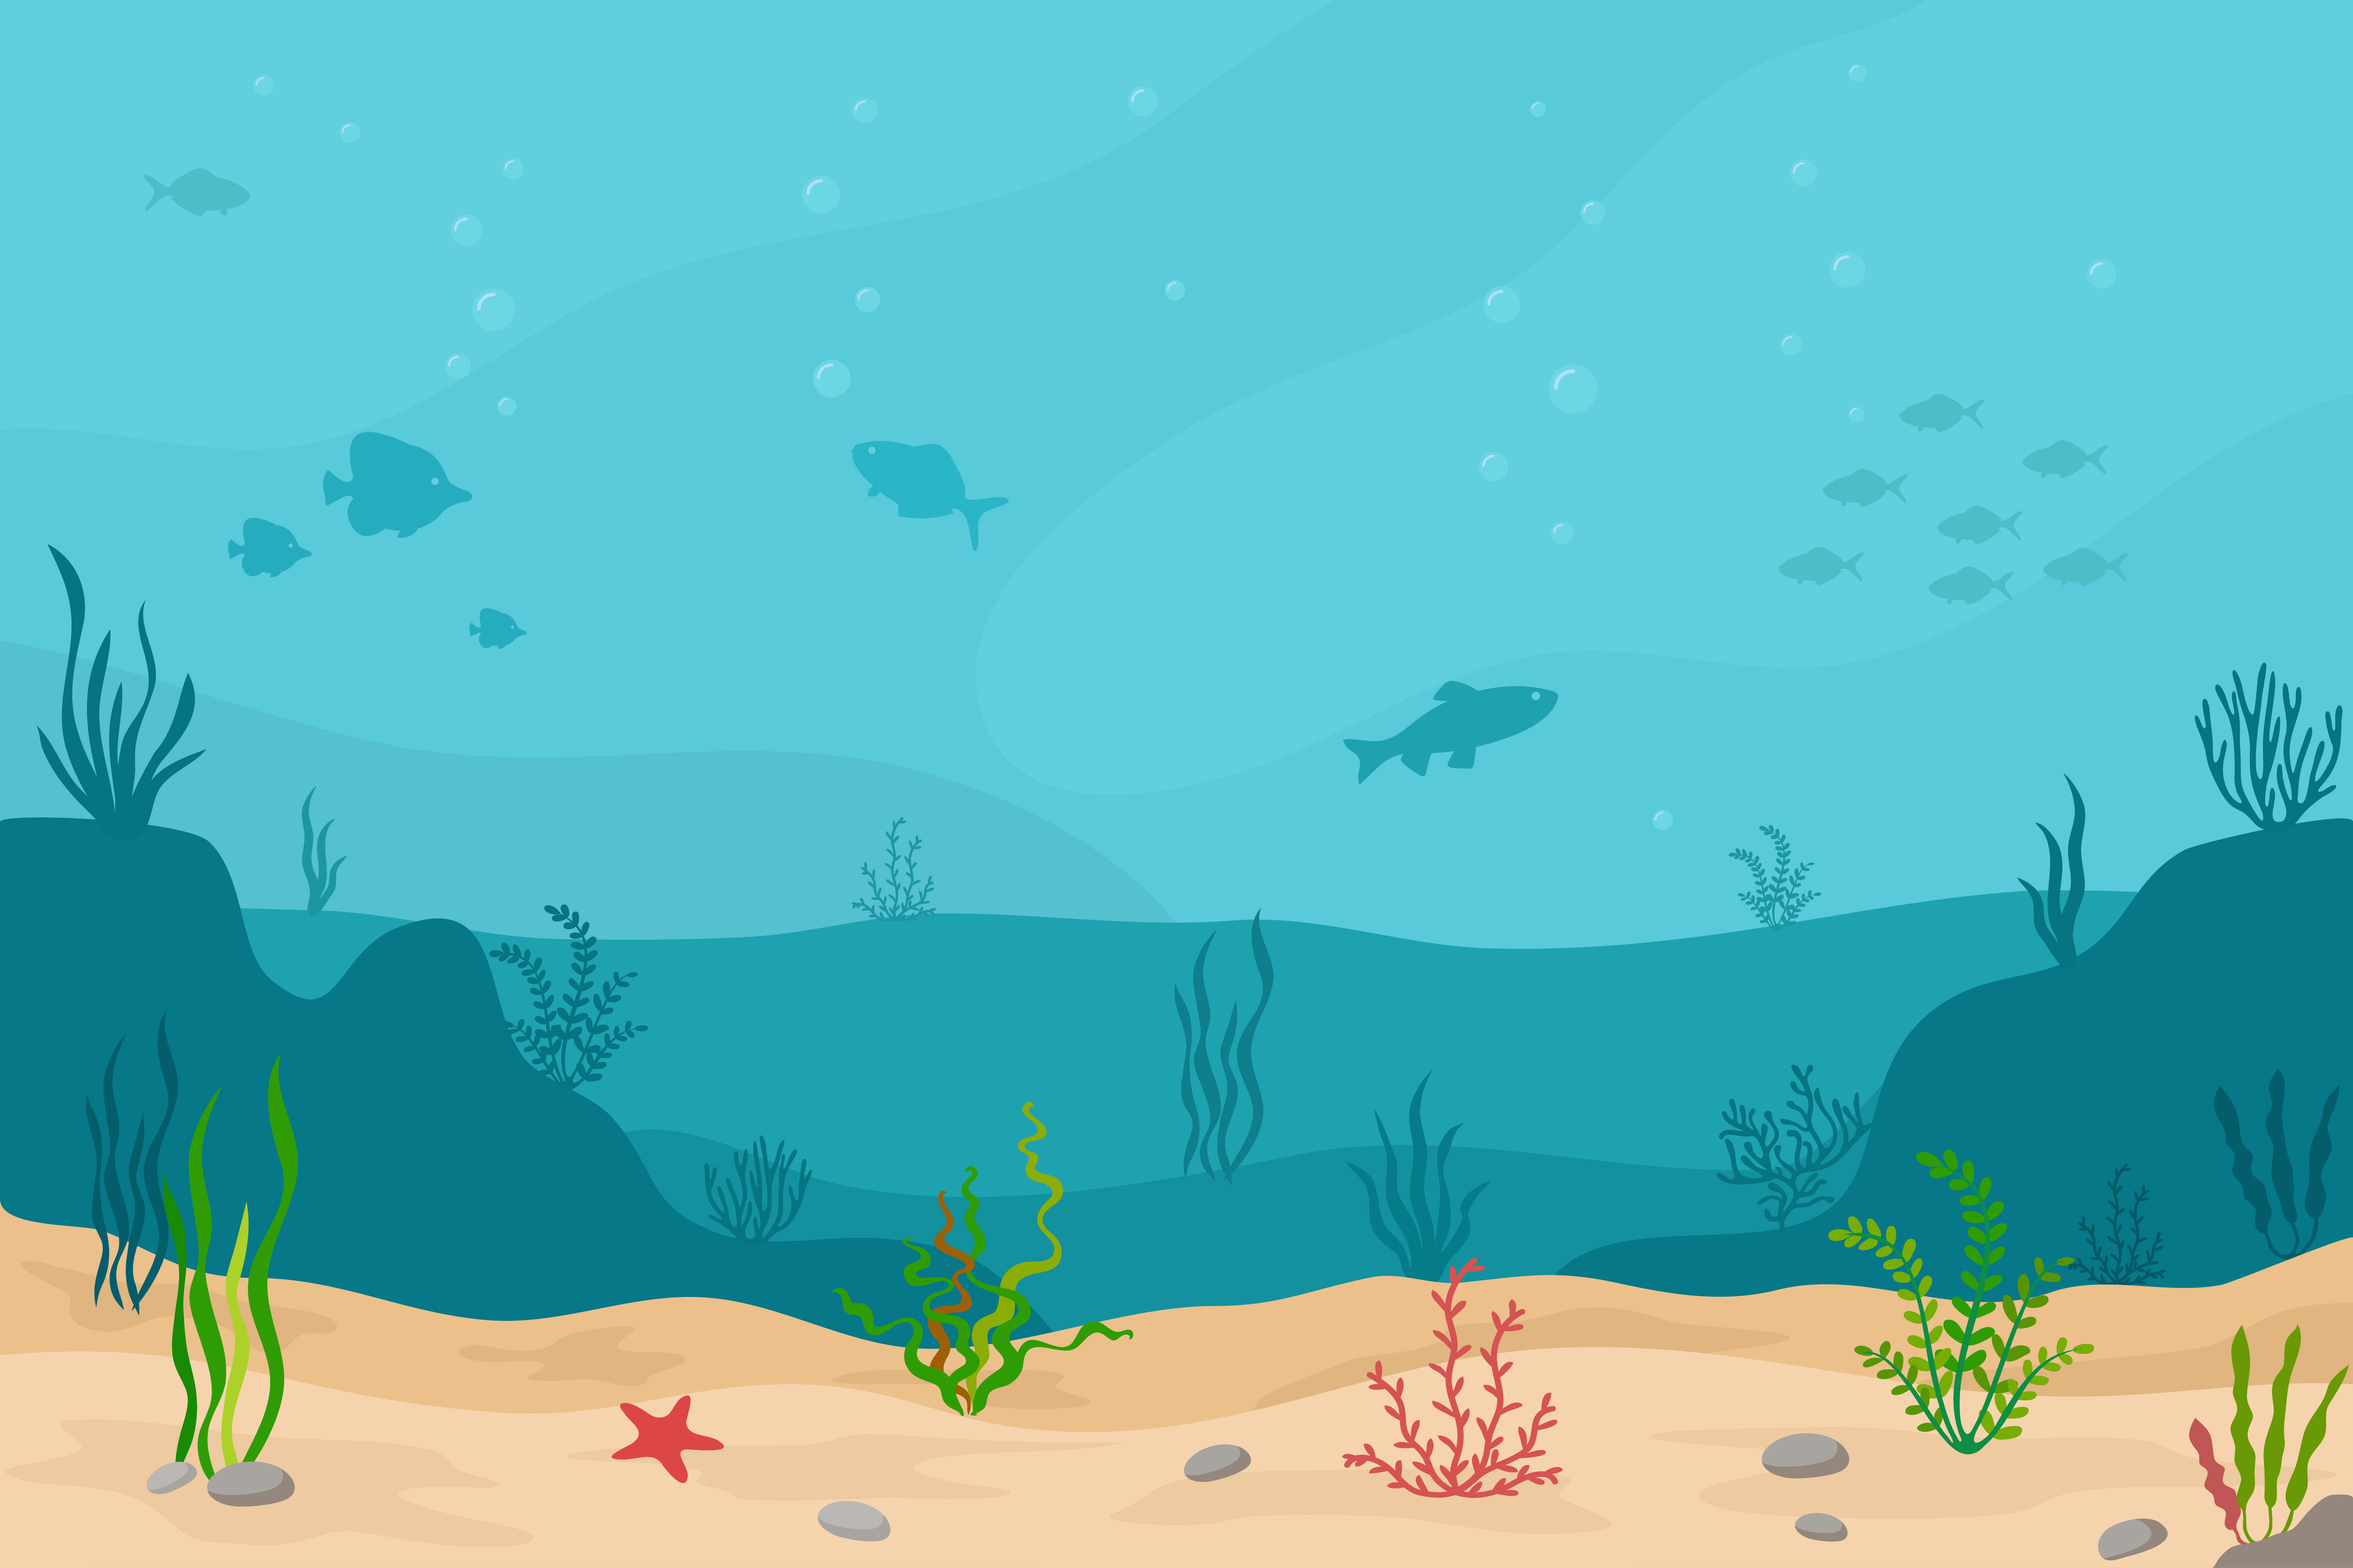
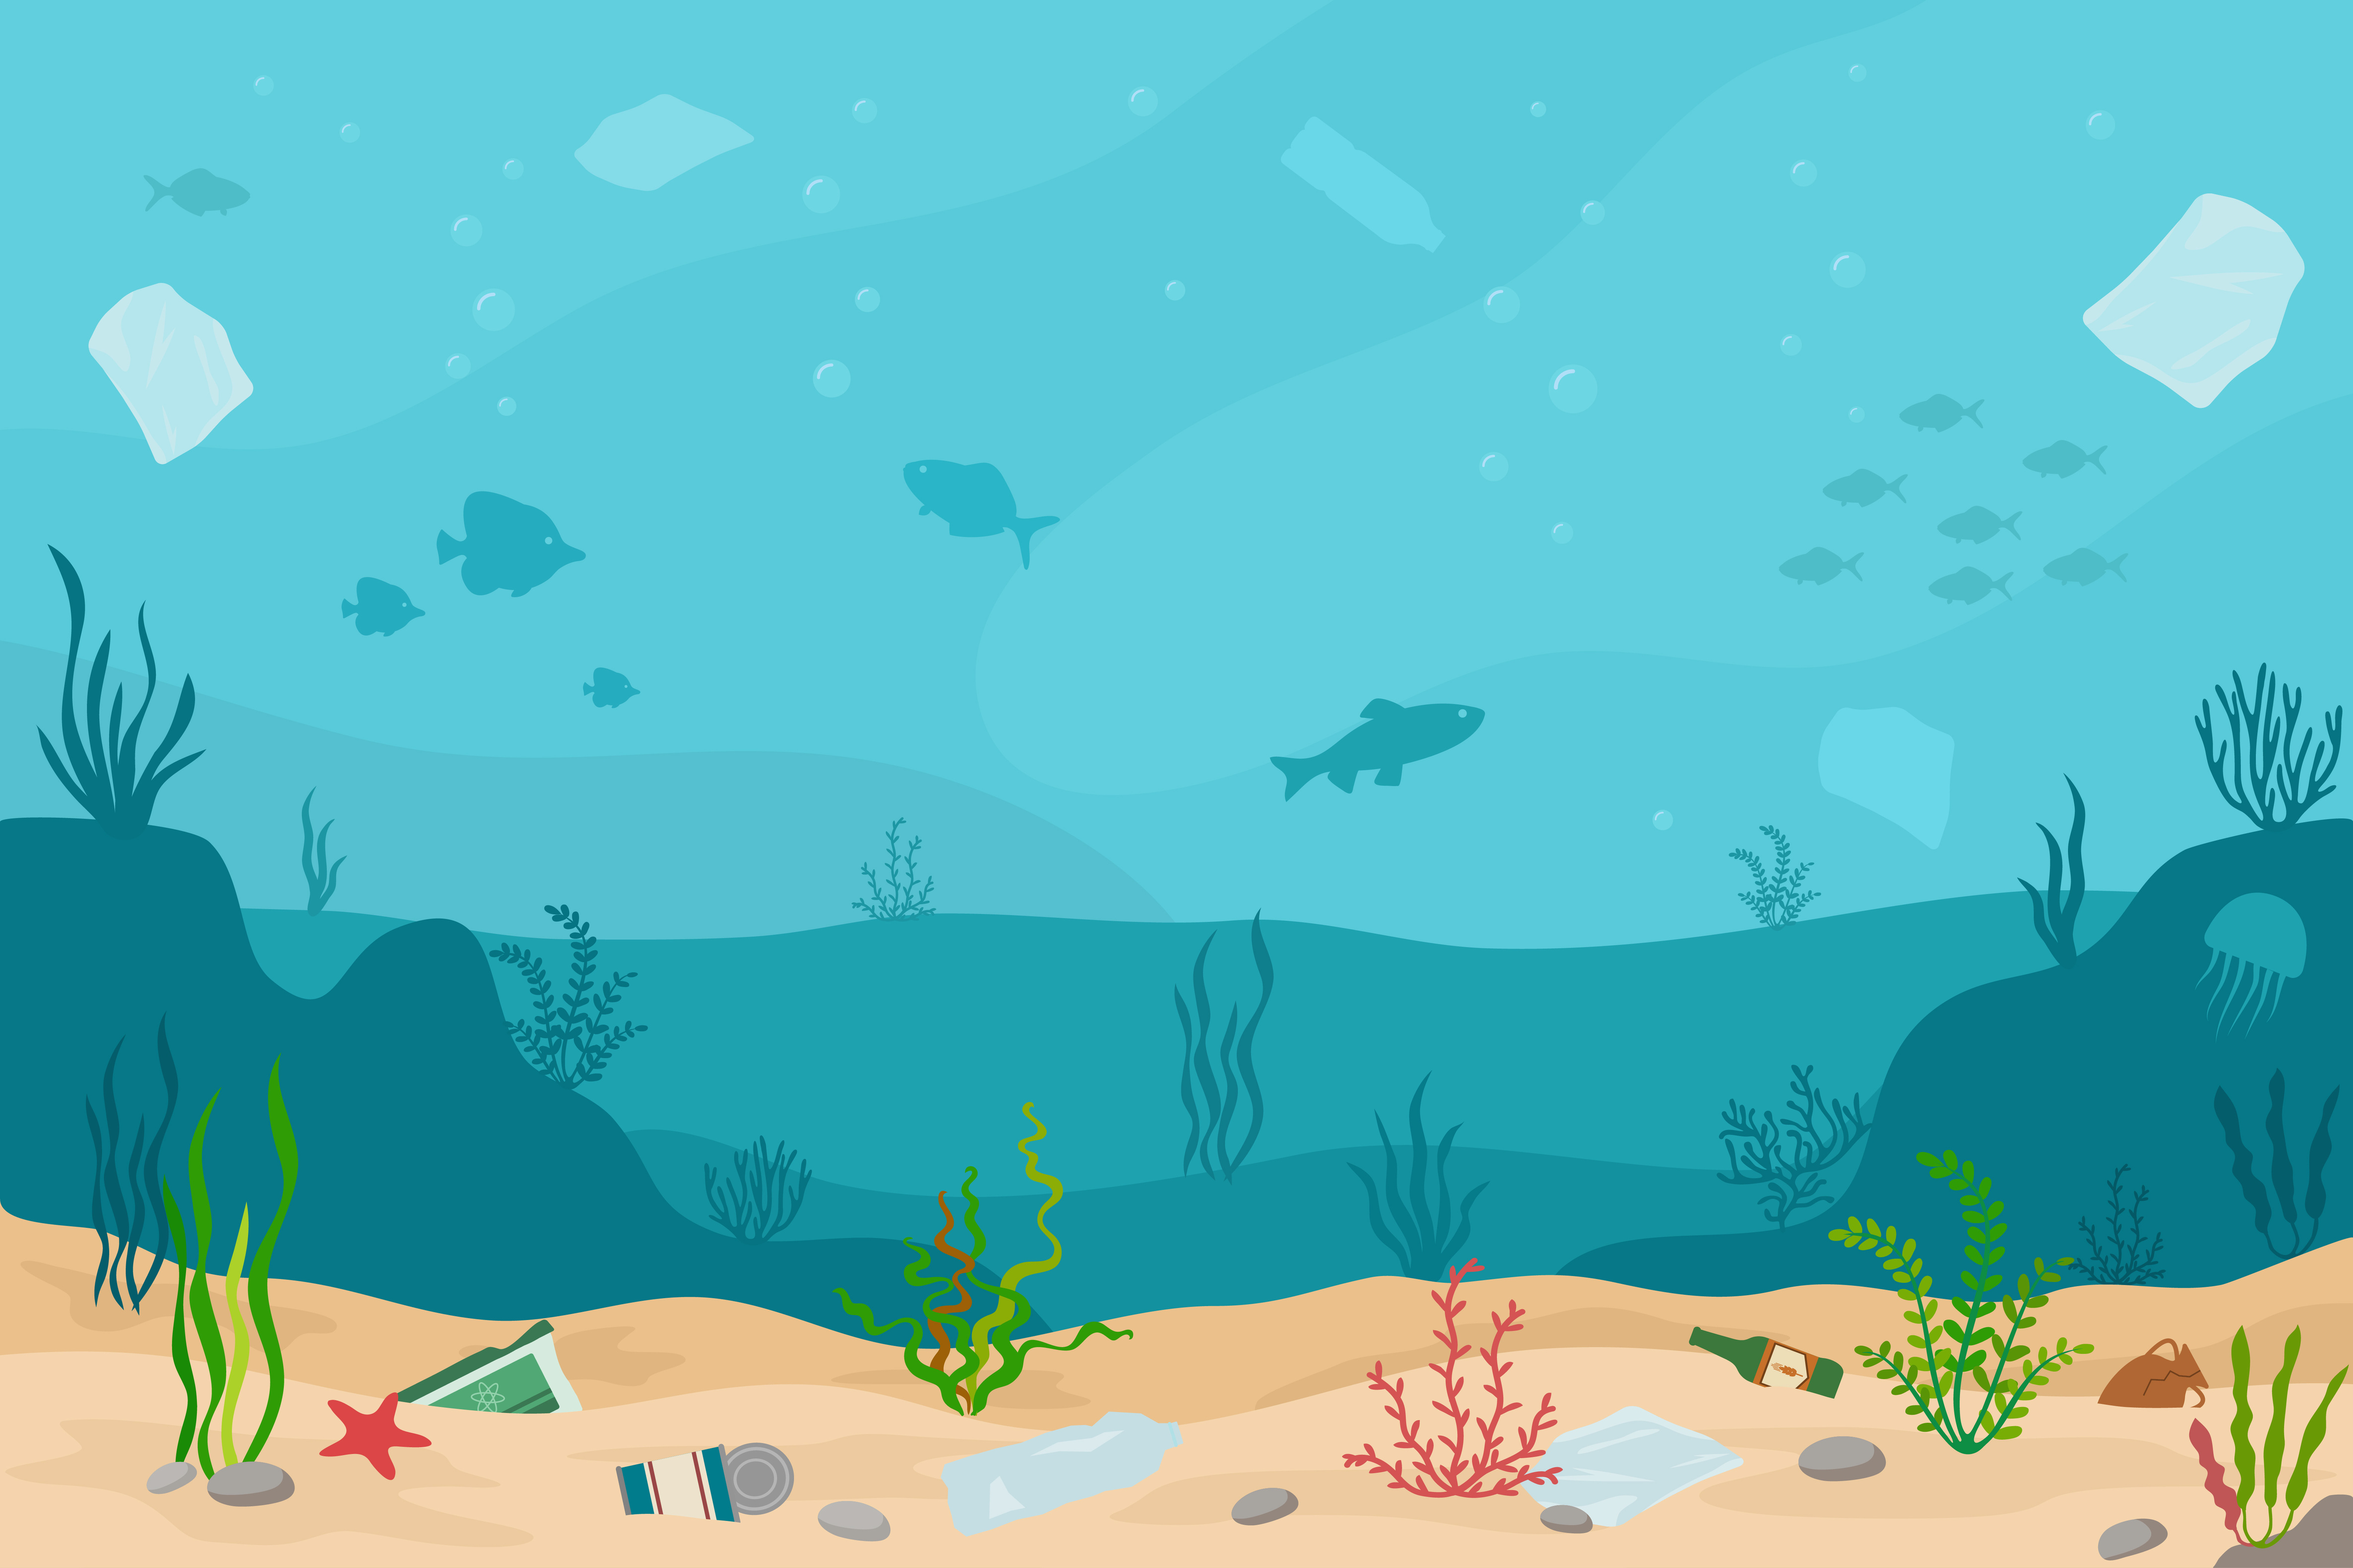
background_plastic added

diff --git a/src/main/resources/static/script.js b/src/main/resources/static/script.js
@@ -16,16 +16,26 @@ function startGame(){
     msgArea.innerHTML = "";
     msgArea.classList.add("hidden");
 
-    setInterval(collide, 1);
     var rand = Math.floor(Math.random() * 8000);
     setInterval(addfishLeft, rand);
     setInterval(addfishRight, rand);
     setInterval(addTrash, 8000);
     updateScore();
+    changeBackground();
 }
 
 function showRules(){
     rules.style.display = "block";
+}
+
+function changeBackground(){
+
+    if(healthCount <= 5){
+        gameArea.style.backgroundImage = "url('images/background_plastic.jpeg')";
+    } else {
+        gameArea.style.backgroundImage = "url('images/background.jpeg')";
+    }
+
 }
 
 function showScoreboard() {
@@ -48,6 +58,7 @@ function addfishLeft(){
         event.target.remove();
         healthCount--;
         updateScore();
+        changeBackground();
     });
 }
 
@@ -67,6 +78,7 @@ function addfishRight(){
         event.target.remove();
         healthCount--;
         updateScore();
+        changeBackground();
     });
 }
 
@@ -93,66 +105,8 @@ function addTrash(){
             score += 25;
         }
         updateScore();
+        changeBackground();
     });
-}
-
-function collide() {
-
-    let trash1 = document.GetElementByClassName("trash_1").getBoundingClientRect();
-
-    let fish1 = document.GetElementByClassName("fish_1").getBoundingClientRect();
-    let fish2 = document.GetElementByClassName("fish_2").getBoundingClientRect();
-    let fish3 = document.GetElementByClassName("fish_3").getBoundingClientRect();
-    let fish4 = document.GetElementByClassName("fish_4").getBoundingClientRect();
-    let fish5 = document.GetElementByClassName("fish_5").getBoundingClientRect();
-    let fish6 = document.GetElementByClassName("fish_6").getBoundingClientRect();
-    let fish7 = document.GetElementByClassName("fish_7").getBoundingClientRect();
-    let fish8 = document.GetElementByClassName("fish_8").getBoundingClientRect();
-
-     if (trash1.left < fish1.left + fish1.width  && trash1.left + trash1.width  > fish1.left &&
-     trash1.top < fish1.top + fish1.height && trash1.top + trash1.height > fish1.top) {
-        score ++;
-        updateScore;
-     }
-
-     if (trash1.left < fish2.left + fish2.width  && trash1.left + trash1.width  > fish2.left &&
-     trash1.top < fish2.top + fish2.height && trash1.top + trash1.height > fish2.top) {
-        score ++;
-        updateScore;
-     }
-
-     if (trash1.left < fish3.left + fish3.width  && trash1.left + trash1.width  > fish3.left &&
-     trash1.top < fish3.top + fish3.height && trash1.top + trash1.height > fish3.top) {
-        score ++;
-        updateScore;
-     }
-
-     if (trash1.left < fish4.left + fish4.width  && trash1.left + trash1.width  > fish4.left &&
-     trash1.top < fish4.top + fish4.height && trash1.top + trash1.height > fish4.top) {
-        score ++;
-        updateScore;
-     }
-
-     if (trash1.left < fish5.left + fish5.width  && trash1.left + trash1.width  > fish5.left &&
-     trash1.top < fish5.top + fish5.height && trash1.top + trash1.height > fish5.top) {
-        score ++;
-        updateScore;
-     }
-     if (trash1.left < fish6.left + fish6.width  && trash1.left + trash1.width  > fish6.left &&
-     trash1.top < fish6.top + fish6.height && trash1.top + trash1.height > fish6.top) {
-        score ++;
-        updateScore;
-     }
-     if (trash1.left < fish7.left + fish7.width  && trash1.left + trash1.width  > fish7.left &&
-     trash1.top < fish7.top + fish7.height && trash1.top + trash1.height > fish7.top) {
-        score ++;
-        updateScore;
-     }
-     if (trash1.left < fish8.left + fish8.width  && trash1.left + trash1.width  > fish8.left &&
-     trash1.top < fish8.top + fish8.height && trash1.top + trash1.height > fish8.top) {
-        score ++;
-        updateScore;
-     }
 }
 
 function updateScore(){

diff --git a/src/main/resources/static/style.css b/src/main/resources/static/style.css
@@ -33,7 +33,6 @@ h1 {
     background-position: center;
     background-repeat: no-repeat;
     background-size: cover;
-    background-image: url("images/background.jpeg");
     background-size: cover;
     cursor: pointer;
     box-shadow: inset 2px 2px 10px black;
@@ -52,7 +51,7 @@ h1 {
     background-size: cover;
     text-shadow: 2px 2px 5px black;
     cursor: url("images/fishing-net.png");
-    }
+}
 
 .rules {
     position: absolute;
